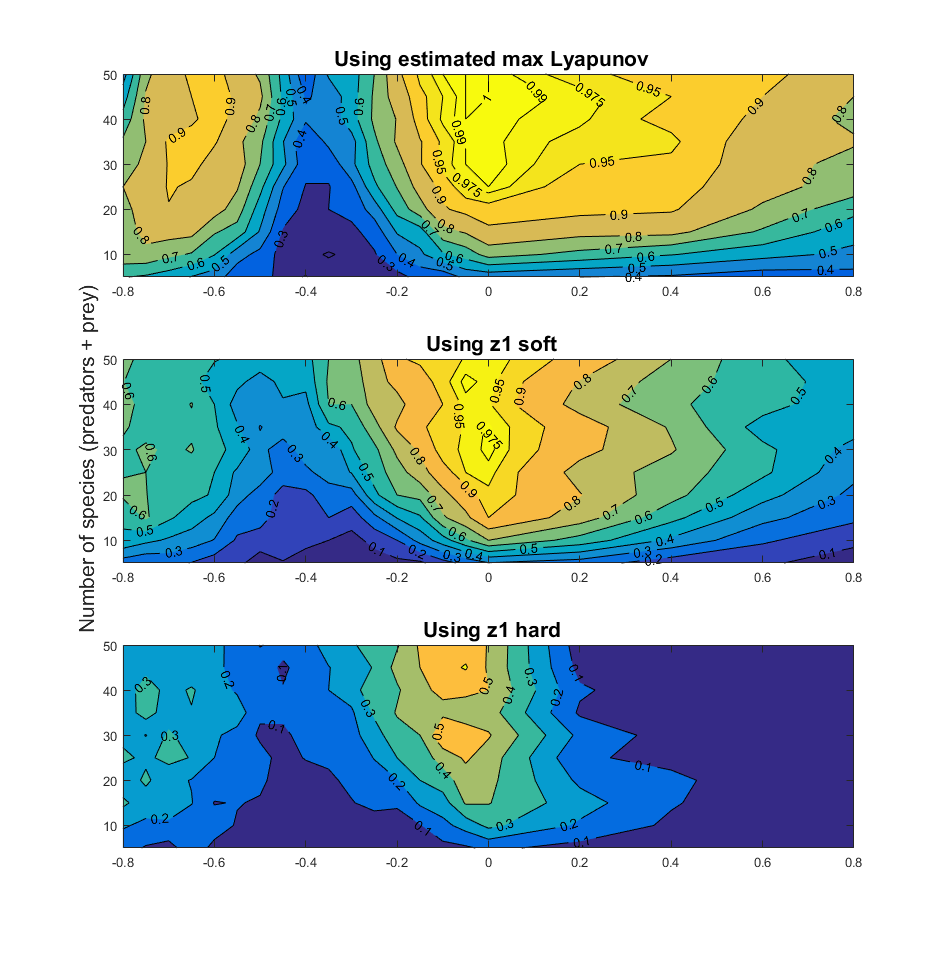
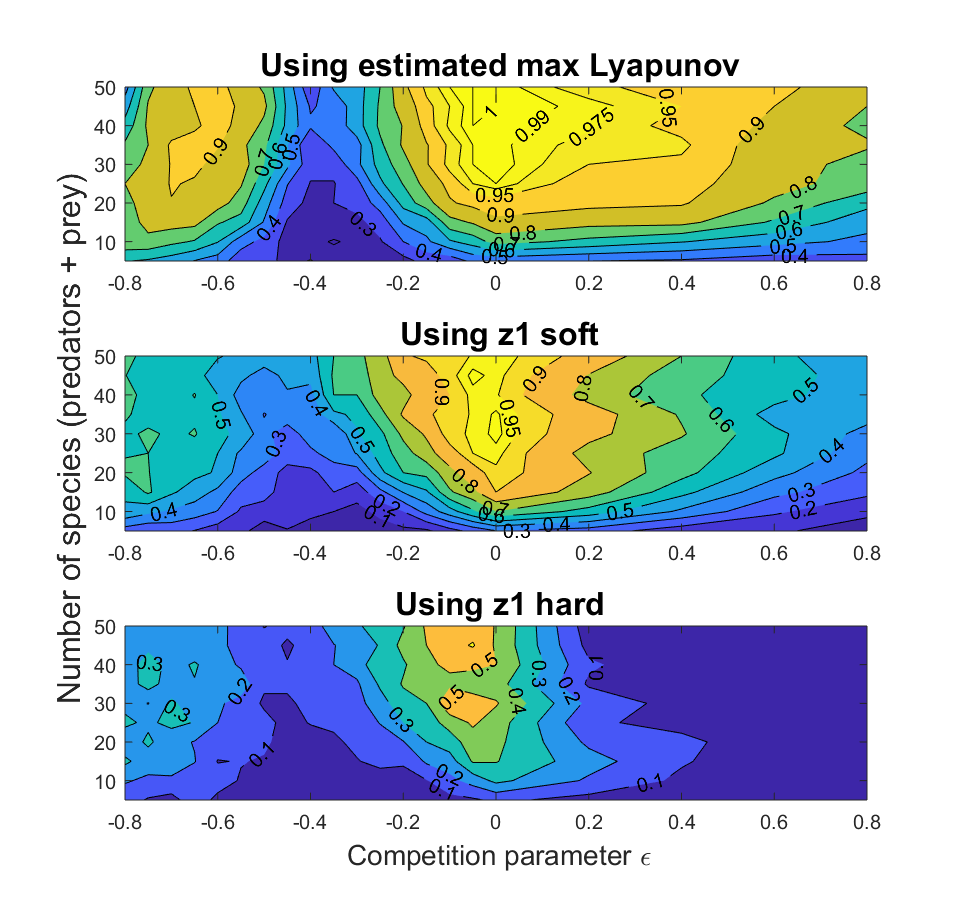
Fixed figure caption

diff --git a/io/figs_for_paper.m b/io/figs_for_paper.m
@@ -102,7 +102,7 @@ ylabel('\fontsize{16} Number of species (predators + prey)');
 subplot(3, 1, 3);
 contourFig(allFiles, 'z1');
 title('\fontsize{16} Using z1 hard');
-xlabel('Competition parameter \epsilon');
+xlabel('\fontsize{14} Competition parameter \epsilon');
 ylabel('');
 
 %% Biodiversities
